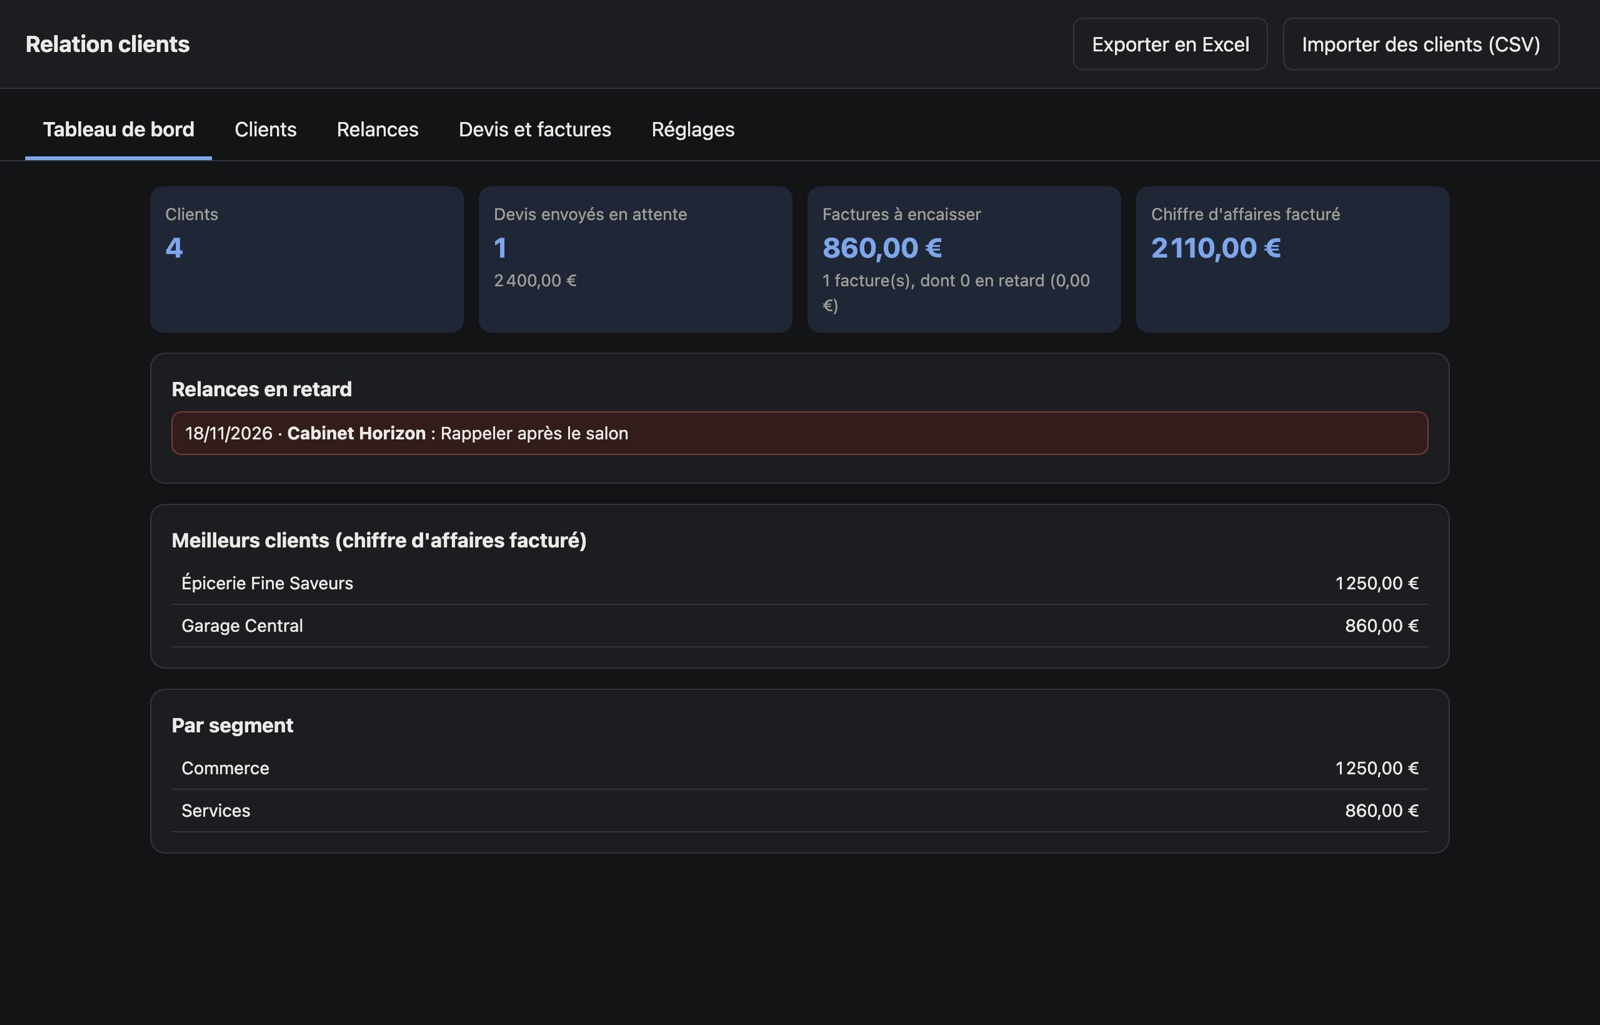
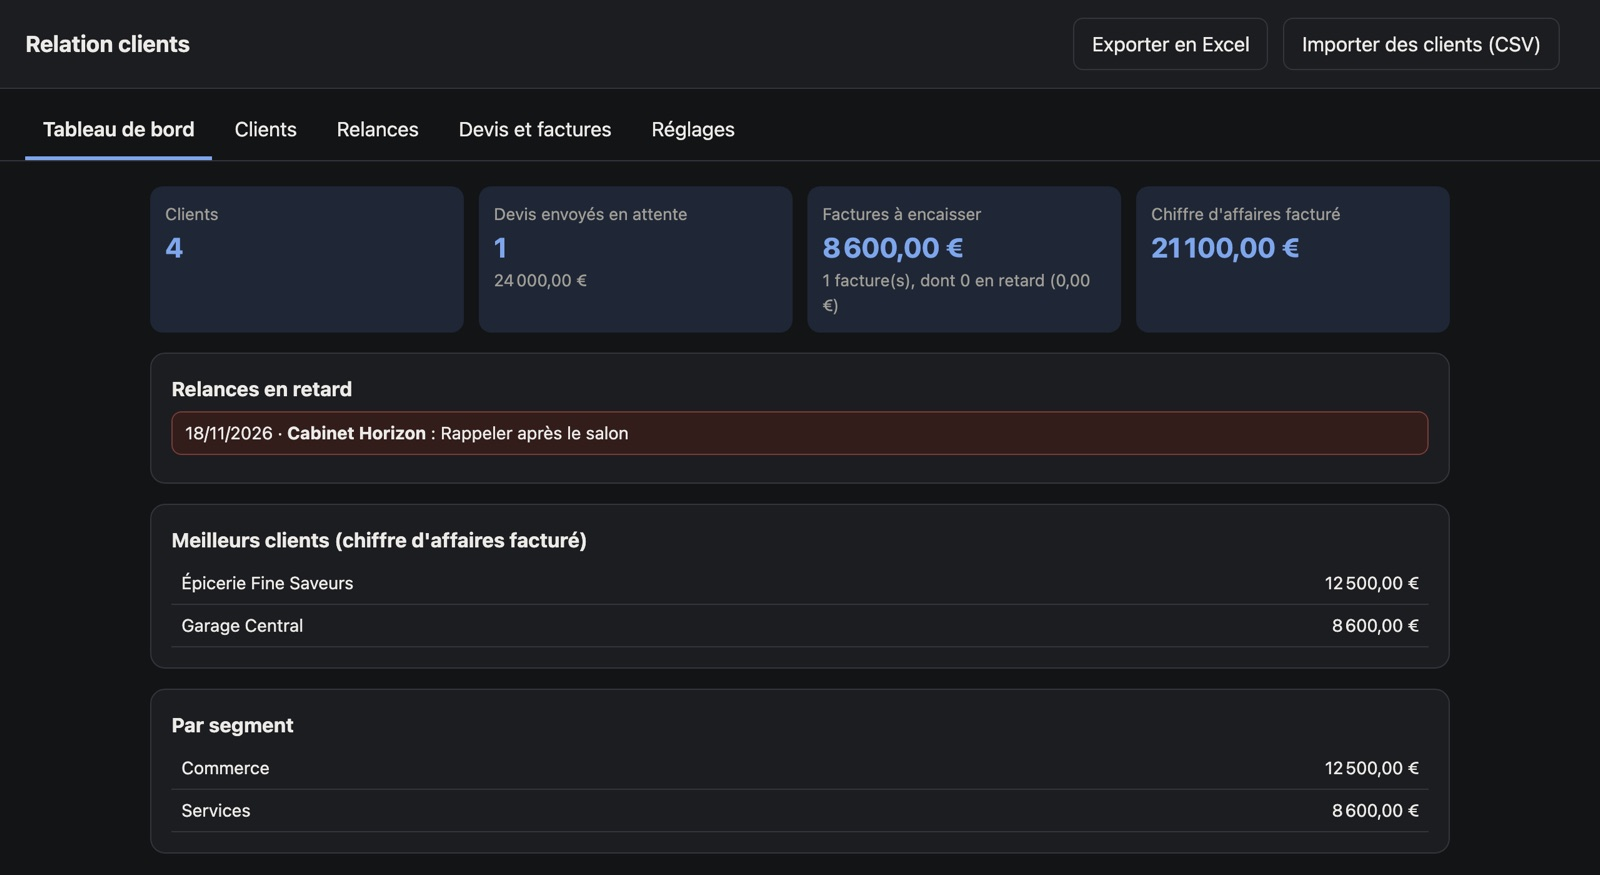
Captures : étude de marché complète, relation clients recadrée, charges agricoles réalistes, image du haut chargée tout de suite

diff --git a/modeles.html b/modeles.html
@@ -38,7 +38,7 @@
     <div class="enveloppe">
       <div class="etiquette revele">Les modèles</div>
       <h2 data-mots>Six points de départ</h2>
-      <div class="etapes-equipe"><div class="carte revele"><a href="modele-etude-de-marche.html" class="vignette" tabindex="-1" aria-hidden="true"><img src="img/modele-etude.jpg" width="1600" height="1025" loading="lazy" alt=""></a><h3><a href="modele-etude-de-marche.html">Étude de marché guidée</a></h3><p>Le marché chiffré en trois scénarios avec leurs sources, les concurrents et leurs prix, une enquête à importer, la fourchette de prix acceptable et ce qui reste à vérifier.</p></div><div class="carte revele d1"><a href="modele-relation-clients.html" class="vignette" tabindex="-1" aria-hidden="true"><img src="img/modele-clients.jpg" width="1600" height="1025" loading="lazy" alt=""></a><h3><a href="modele-relation-clients.html">Relation clients</a></h3><p>Le fichier clients vivant : échanges, relances, devis et factures suivis, factures à encaisser, meilleurs clients. Export et effacement des données d'un client en un clic.</p></div><div class="carte revele d2"><a href="modele-production.html" class="vignette" tabindex="-1" aria-hidden="true"><img src="img/modele-production.jpg" width="1600" height="1025" loading="lazy" alt=""></a><h3><a href="modele-production.html">Production et coûts de revient</a></h3><p>Pour l'atelier ou la petite usine : coût de revient par produit, marge, rendement des ordres de fabrication, charge des postes de travail.</p></div><div class="carte revele"><a href="modele-stocks-achats.html" class="vignette" tabindex="-1" aria-hidden="true"><img src="img/modele-stocks.jpg" width="1600" height="1025" loading="lazy" alt=""></a><h3><a href="modele-stocks-achats.html">Achats et stocks</a></h3><p>Stock à jour, articles à réapprovisionner, commandes en retard, prix des fournisseurs comparés, rotation et couverture du stock.</p></div><div class="carte revele d1"><a href="modele-qualite.html" class="vignette" tabindex="-1" aria-hidden="true"><img src="img/modele-qualite.jpg" width="1600" height="1025" loading="lazy" alt=""></a><h3><a href="modele-qualite.html">Qualité et conformité</a></h3><p>Exigences et fréquences de contrôle, contrôles et preuves, non-conformités, actions correctives et leurs échéances.</p></div><div class="carte revele d2"><a href="modele-secteur.html" class="vignette" tabindex="-1" aria-hidden="true"><img src="img/modele-agricole.jpg" width="1600" height="1025" loading="lazy" alt=""></a><h3><a href="modele-secteur.html">Dossier de projet pour un secteur</a></h3><p>Pour un réseau ou un cabinet qui accompagne un seul métier : le dossier de projet déjà réglé pour lui. Premier exemple : un projet agricole en Guyane, prévisionnel sur trois ans et aides à étudier.</p></div></div>
+      <div class="etapes-equipe"><div class="carte revele"><a href="modele-etude-de-marche.html" class="vignette" tabindex="-1" aria-hidden="true"><img src="img/modele-etude.jpg" width="1600" height="1025" loading="lazy" alt=""></a><h3><a href="modele-etude-de-marche.html">Étude de marché guidée</a></h3><p>Le marché chiffré en trois scénarios avec leurs sources, les concurrents et leurs prix, une enquête à importer, la fourchette de prix acceptable et ce qui reste à vérifier.</p></div><div class="carte revele d1"><a href="modele-relation-clients.html" class="vignette" tabindex="-1" aria-hidden="true"><img src="img/modele-clients.jpg" width="1600" height="875" loading="lazy" alt=""></a><h3><a href="modele-relation-clients.html">Relation clients</a></h3><p>Le fichier clients vivant : échanges, relances, devis et factures suivis, factures à encaisser, meilleurs clients. Export et effacement des données d'un client en un clic.</p></div><div class="carte revele d2"><a href="modele-production.html" class="vignette" tabindex="-1" aria-hidden="true"><img src="img/modele-production.jpg" width="1600" height="1025" loading="lazy" alt=""></a><h3><a href="modele-production.html">Production et coûts de revient</a></h3><p>Pour l'atelier ou la petite usine : coût de revient par produit, marge, rendement des ordres de fabrication, charge des postes de travail.</p></div><div class="carte revele"><a href="modele-stocks-achats.html" class="vignette" tabindex="-1" aria-hidden="true"><img src="img/modele-stocks.jpg" width="1600" height="1025" loading="lazy" alt=""></a><h3><a href="modele-stocks-achats.html">Achats et stocks</a></h3><p>Stock à jour, articles à réapprovisionner, commandes en retard, prix des fournisseurs comparés, rotation et couverture du stock.</p></div><div class="carte revele d1"><a href="modele-qualite.html" class="vignette" tabindex="-1" aria-hidden="true"><img src="img/modele-qualite.jpg" width="1600" height="1025" loading="lazy" alt=""></a><h3><a href="modele-qualite.html">Qualité et conformité</a></h3><p>Exigences et fréquences de contrôle, contrôles et preuves, non-conformités, actions correctives et leurs échéances.</p></div><div class="carte revele d2"><a href="modele-secteur.html" class="vignette" tabindex="-1" aria-hidden="true"><img src="img/modele-agricole.jpg" width="1600" height="1025" loading="lazy" alt=""></a><h3><a href="modele-secteur.html">Dossier de projet pour un secteur</a></h3><p>Pour un réseau ou un cabinet qui accompagne un seul métier : le dossier de projet déjà réglé pour lui. Premier exemple : un projet agricole en Guyane, prévisionnel sur trois ans et aides à étudier.</p></div></div>
     </div>
   </section>
 

diff --git a/modele-secteur.html b/modele-secteur.html
@@ -34,7 +34,7 @@
     <p class="chapeau revele d3">Pour un réseau ou un cabinet qui accompagne un seul métier : le dossier de projet déjà réglé pour lui. Un modèle déjà construit, que nous adaptons à votre activité : vos champs, vos calculs, vos documents.</p>
   </div>
 
-  <section class="capture-zone"><div class="enveloppe"><figure class="capture-modele revele"><img src="img/modele-agricole.jpg" width="1600" height="1025" loading="lazy" alt="Capture d'écran du modèle : la synthèse d'un projet agricole sur trois ans"><figcaption>Capture réelle du modèle, remplie avec des données d'exemple fictives.</figcaption></figure></div></section>
+  <section class="capture-zone"><div class="enveloppe"><figure class="capture-modele revele"><img src="img/modele-agricole.jpg" width="1600" height="1025" loading="eager" alt="Capture d'écran du modèle : la synthèse d'un projet agricole sur trois ans"><figcaption>Capture réelle du modèle, remplie avec des données d'exemple fictives.</figcaption></figure></div></section>
 
   <section style="padding-top:30px">
     <div class="enveloppe">

diff --git a/modele-production.html b/modele-production.html
@@ -34,7 +34,7 @@
     <p class="chapeau revele d3">Pour l'atelier ou la petite usine : savoir ce que coûte vraiment chaque produit. Un modèle déjà construit, que nous adaptons à votre activité : vos champs, vos calculs, vos documents.</p>
   </div>
 
-  <section class="capture-zone"><div class="enveloppe"><figure class="capture-modele revele"><img src="img/modele-production.jpg" width="1600" height="1025" loading="lazy" alt="Capture d'écran du modèle : le tableau de bord de production et des coûts de revient"><figcaption>Capture réelle du modèle, remplie avec des données d'exemple fictives.</figcaption></figure></div></section>
+  <section class="capture-zone"><div class="enveloppe"><figure class="capture-modele revele"><img src="img/modele-production.jpg" width="1600" height="1025" loading="eager" alt="Capture d'écran du modèle : le tableau de bord de production et des coûts de revient"><figcaption>Capture réelle du modèle, remplie avec des données d'exemple fictives.</figcaption></figure></div></section>
 
   <section style="padding-top:30px">
     <div class="enveloppe">

diff --git a/modele-relation-clients.html b/modele-relation-clients.html
@@ -34,7 +34,7 @@
     <p class="chapeau revele d3">Un fichier clients vivant, avec ses échanges, ses relances, ses devis et ses factures. Un modèle déjà construit, que nous adaptons à votre activité : vos champs, vos calculs, vos documents.</p>
   </div>
 
-  <section class="capture-zone"><div class="enveloppe"><figure class="capture-modele revele"><img src="img/modele-clients.jpg" width="1600" height="1025" loading="lazy" alt="Capture d'écran du modèle : le tableau de bord de la relation clients"><figcaption>Capture réelle du modèle, remplie avec des données d'exemple fictives.</figcaption></figure></div></section>
+  <section class="capture-zone"><div class="enveloppe"><figure class="capture-modele revele"><img src="img/modele-clients.jpg" width="1600" height="875" loading="eager" alt="Capture d'écran du modèle : le tableau de bord de la relation clients"><figcaption>Capture réelle du modèle, remplie avec des données d'exemple fictives.</figcaption></figure></div></section>
 
   <section style="padding-top:30px">
     <div class="enveloppe">

diff --git a/modele-stocks-achats.html b/modele-stocks-achats.html
@@ -34,7 +34,7 @@
     <p class="chapeau revele d3">Pour l'entreprise qui achète : le bon stock, au bon prix, chez le bon fournisseur. Un modèle déjà construit, que nous adaptons à votre activité : vos champs, vos calculs, vos documents.</p>
   </div>
 
-  <section class="capture-zone"><div class="enveloppe"><figure class="capture-modele revele"><img src="img/modele-stocks.jpg" width="1600" height="1025" loading="lazy" alt="Capture d'écran du modèle : le tableau de bord des achats et des stocks"><figcaption>Capture réelle du modèle, remplie avec des données d'exemple fictives.</figcaption></figure></div></section>
+  <section class="capture-zone"><div class="enveloppe"><figure class="capture-modele revele"><img src="img/modele-stocks.jpg" width="1600" height="1025" loading="eager" alt="Capture d'écran du modèle : le tableau de bord des achats et des stocks"><figcaption>Capture réelle du modèle, remplie avec des données d'exemple fictives.</figcaption></figure></div></section>
 
   <section style="padding-top:30px">
     <div class="enveloppe">

diff --git a/modele-qualite.html b/modele-qualite.html
@@ -34,7 +34,7 @@
     <p class="chapeau revele d3">Pour l'entreprise qui doit prouver ses contrôles. Un modèle déjà construit, que nous adaptons à votre activité : vos champs, vos calculs, vos documents.</p>
   </div>
 
-  <section class="capture-zone"><div class="enveloppe"><figure class="capture-modele revele"><img src="img/modele-qualite.jpg" width="1600" height="1025" loading="lazy" alt="Capture d'écran du modèle : le tableau de bord qualité et conformité"><figcaption>Capture réelle du modèle, remplie avec des données d'exemple fictives.</figcaption></figure></div></section>
+  <section class="capture-zone"><div class="enveloppe"><figure class="capture-modele revele"><img src="img/modele-qualite.jpg" width="1600" height="1025" loading="eager" alt="Capture d'écran du modèle : le tableau de bord qualité et conformité"><figcaption>Capture réelle du modèle, remplie avec des données d'exemple fictives.</figcaption></figure></div></section>
 
   <section style="padding-top:30px">
     <div class="enveloppe">

diff --git a/modele-etude-de-marche.html b/modele-etude-de-marche.html
@@ -34,7 +34,7 @@
     <p class="chapeau revele d3">Chiffrer un marché et pouvoir le défendre, en cinq étapes. Un modèle déjà construit, que nous adaptons à votre activité : vos champs, vos calculs, vos documents.</p>
   </div>
 
-  <section class="capture-zone"><div class="enveloppe"><figure class="capture-modele revele"><img src="img/modele-etude.jpg" width="1600" height="1025" loading="lazy" alt="Capture d'écran du modèle : la synthèse d'une étude de marché"><figcaption>Capture réelle du modèle, remplie avec des données d'exemple fictives.</figcaption></figure></div></section>
+  <section class="capture-zone"><div class="enveloppe"><figure class="capture-modele revele"><img src="img/modele-etude.jpg" width="1600" height="1025" loading="eager" alt="Capture d'écran du modèle : la synthèse d'une étude de marché"><figcaption>Capture réelle du modèle, remplie avec des données d'exemple fictives.</figcaption></figure></div></section>
 
   <section style="padding-top:30px">
     <div class="enveloppe">
